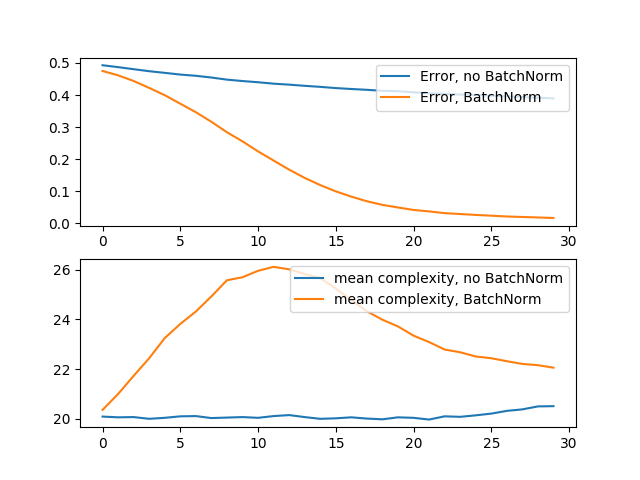
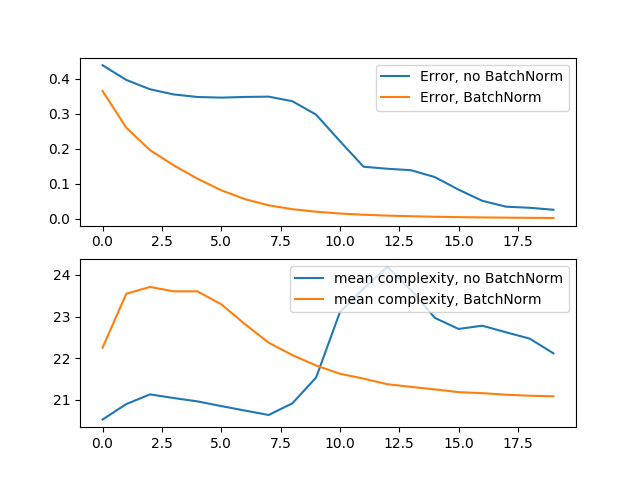
Minor

diff --git a/LVC_plot.py b/LVC_plot.py
@@ -27,14 +27,6 @@ def output_anal(x):
             y[i] = 1
     return y
 
-def get_freq(x):
-    T = collections.Counter(x)
-    Y = np.array(list(T.values()), dtype=np.longfloat)
-    Y = Y / times
-    Y = np.sort(Y)
-    Y = Y[::-1]
-    return Y
-
 def get_max_freq(x):
     T = collections.Counter(x)
     Y = np.array(list(T.values()), dtype=np.longfloat)
@@ -124,7 +116,7 @@ non_BN_mean_complexity = torch.zeros(epochs)
 BN_mean_complexity = torch.zeros(epochs)
 
 # initialize MC number of models
-MC_num = 100
+MC_num = 500
 model1s, optimizer1s = [], []
 model2s, optimizer2s = [], []
 
@@ -155,8 +147,8 @@ for MC in range(MC_num):
     model2.add_module('FC3', torch.nn.Linear(neu, 2))
 
     # define optimizer
-    optimizer1 = optim.Adam(model1.parameters(), lr=0.1)
-    optimizer2 = optim.Adam(model2.parameters(), lr=0.1)
+    optimizer1 = optim.Adam(model1.parameters(), lr=0.01)
+    optimizer2 = optim.Adam(model2.parameters(), lr=0.01)
 
     model1s.append(model1)
     model2s.append(model2)
@@ -203,11 +195,11 @@ Ma = max(max(BN_mean_complexity), max(non_BN_mean_complexity))
 T = min(min(error_BN), min(error_nonBN))
 Ta = max(max(error_BN), max(error_nonBN))
 X = np.arange(epochs)
-ax1.plot(X, error_nonBN, label="Error, no BatchNorm")
-ax1.plot(X, error_BN, label="Error, BatchNorm")
+ax1.plot(X, error_nonBN, label="Error, NN")
+ax1.plot(X, error_BN, label="Error, NN with batch norm")
 ax1.legend(loc="upper right")
-ax2.plot(X, non_BN_mean_complexity, label="mean complexity, no BatchNorm")
-ax2.plot(X, BN_mean_complexity, label="mean complexity, BatchNorm")
+ax2.plot(X, non_BN_mean_complexity, label="Mean complexity, NN")
+ax2.plot(X, BN_mean_complexity, label="Mean complexity, NN with batch norm")
 ax2.legend(loc="upper right")
 plt.savefig('lvc_lc.png')
 plt.show()
